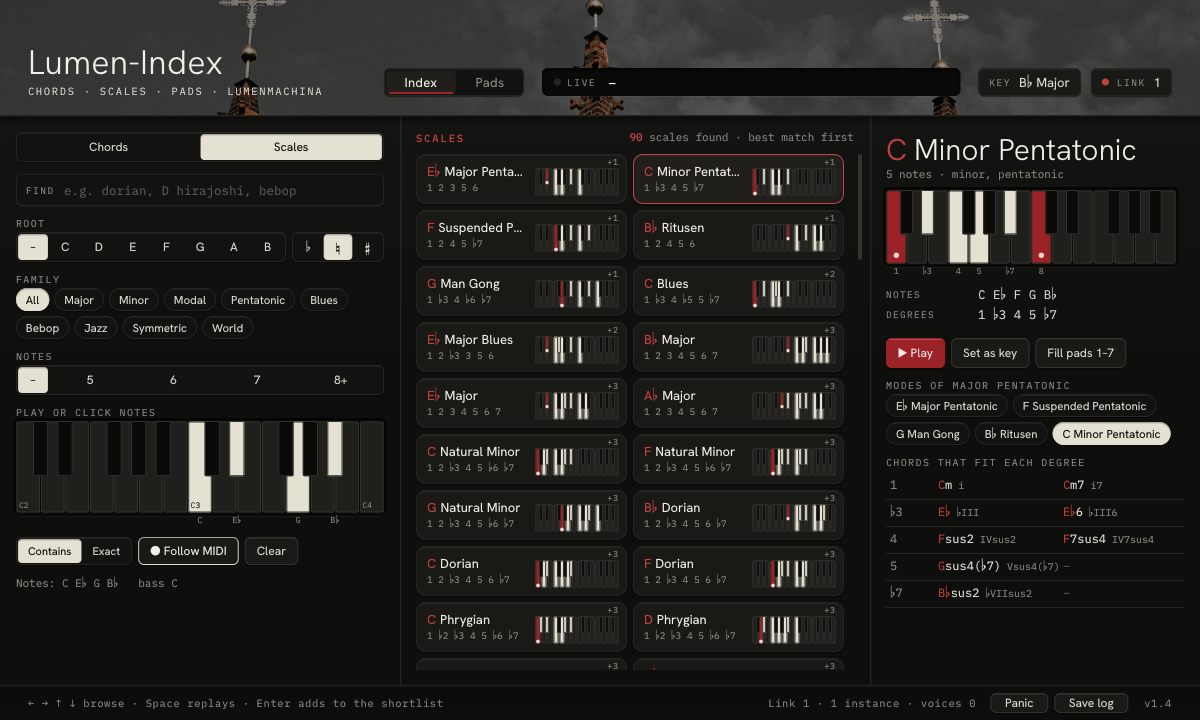
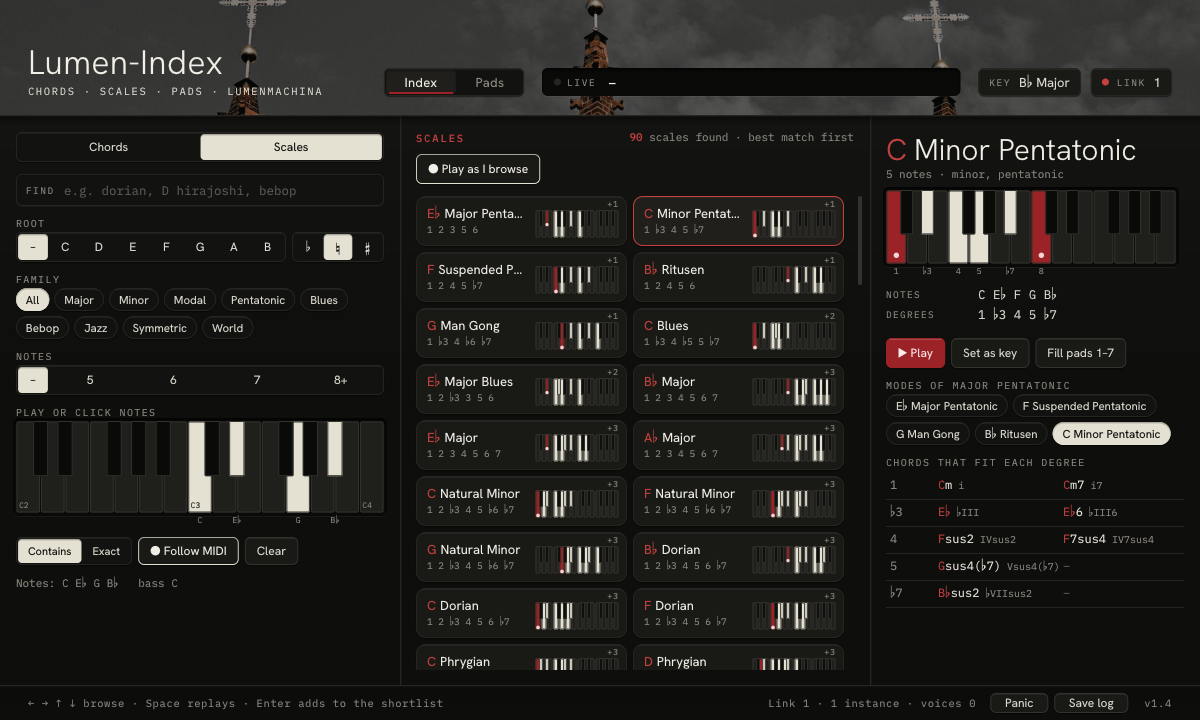
Lumen-Index 1.4: Undo/Redo, scales that play, slash chords; roadmap
Claude-Session: https://claude.ai/code/session_01UJgLAssBDWTF9GFMoTxngF

diff --git a/plugins/lumen-index-guide.md b/plugins/lumen-index-guide.md
@@ -118,6 +118,7 @@ This walkthrough uses Bitwig. You'll need a MIDI keyboard, or you can click the 
 1. Click **Pads** in the header if it isn't already showing.
 2. Pick **7ths** (the default), then click **Fill 1–7**. Pads 1–7 now hold the seven chords of your key.
 3. Click **Borrowed**. Pads 8–12 get chords from the parallel key (the major or minor key on the same root), which add colour.
+4. Changed your mind? **Pad sets ▾** has **Undo** and **Redo** for changes to the pads, the progression and the key.
 
 **3. Play the pads**
 
@@ -187,9 +188,18 @@ The window is the same in the plugin and both apps. It's a fixed size (1200 × 7
 
 The default key is C Major with flats. The key decides how notes are spelt, the Roman numerals, which pads are dimmed as out of key, what **Fill 1–7** and **Borrowed** put on the pads, the Hints, and what Snap treats as the scale. Linked instances share the key.
 
+A key change made in this menu can be undone (see [Undo and Redo](#undo-and-redo)).
+
 ### Footer
 
-- **Status text**: the last message, for example "Sent Cmaj7 (Root, Close) to pad 3." The message stays until the next one. Until the first message, it shows a hint for the page (and while you fill progression slots, it shows the filling hint instead of any message):
+- **Status text**: what just happened, for example "Sent Cmaj7 (Root, Close) to pad 3." A message shows for about 6 to 15 seconds, depending on how long it is (a warning, such as "Could not write the log file.", about 4 seconds more). Then the page's hint comes back. A new message, even the same one again, starts its time again.
+  - While you hold a pad (or press on anything you can drag out), and while you drag a clip out, the message stays until you let go or drop; then its time starts again.
+  - While Read is waiting or reading, the footer shows "Reading: play the clip on this track." instead of the page's hint.
+  - While you fill progression slots, it shows the filling hint instead of any message.
+  - "Type a name for the set first." stays while the set's name field is still empty.
+  - Switching pages shows that page's hint, unless a message is still showing.
+
+  The hints:
   - Index: "← → ↑ ↓ browse · Space replays · Enter adds to the shortlist"
   - Pads: "Hold a pad to play it · drag it into the arranger for a clip"
   - While filling progression slots: "Click pads to fill the progression in order · Esc stops"
@@ -205,7 +215,8 @@ The default key is C Major with flats. The key decides how notes are spelt, the 
 - The mouse wheel or trackpad scrolls the results, the detail panel, the KEY menu's scale list, the Pad sets list and the pad editor's chord grid. You can also drag the results scrollbar.
 - A double-click works like a single click.
 - **Esc** closes an open menu, or stops filling progression slots. Clicking outside a menu also closes it.
-- On a Mac, keys the window doesn't use, and any key with Command, go on to the host, so its transport shortcuts still work.
+- **Ctrl+Z** undoes and **Ctrl+Shift+Z** or **Ctrl+Y** redoes (on a Mac, **Cmd+Z**, **Cmd+Shift+Z**, **Cmd+Y**), when the Lumen-Index window has the keyboard and you're not typing in FIND or a set name. See [Undo and Redo](#undo-and-redo).
+- On a Mac, keys the window doesn't use, and any key with Command other than Undo and Redo, go on to the host, so its transport shortcuts still work.
 
 ---
 
@@ -290,7 +301,7 @@ With no notes selected, Chords lists every chord the filters allow. Scales, with
 
 If nothing matches: "Nothing matches. Try Contains, or clear a filter."
 
-- **Click a tile** to select it. A chord tile also plays; to hear a scale, use **▶ Play** in the right column.
+- **Click a tile** to select it and hear it: a chord plays as a chord, a scale note by note (see [Scales view](#scales-view)).
 - **Drag a chord tile** into your DAW for a one-bar clip (see [Getting it into your song](#getting-it-into-your-song)).
 
 ### Browsing with the keys
@@ -302,16 +313,16 @@ When FIND isn't taking your typing:
 | ← / → | previous / next result |
 | ↑ / ↓ | up / down one row (2 results) |
 | PgUp / PgDn | 12 results back / on |
-| Space | replay the selected chord (Chords only) |
-| Enter | add the chord to the shortlist, or take it out if it's already there |
+| Space | replay the selected chord or scale |
+| Enter | add the chord to the shortlist, or take it out if it's already there (Chords only) |
 
-**● Play as I browse** (Chords, on by default) plays each result as you move to it with the arrow keys.
+**● Play as I browse** (on by default) plays each result as you move to it with the arrow keys or PgUp / PgDn: a chord as a chord, a scale note by note. It's shown in both Chords and Scales, and it's one setting for both.
 
 ### Lead-in
 
 **Lead-in** (Chords, with − / + buttons) plays one of your pads before each candidate, so you hear every chord coming from the chord before it. The values are None, then "Pad 1 · Cmaj7" through "Pad 12".
 
-With a lead-in, each audition plays the pad, a short gap, then the candidate. Without one, the candidate plays on its own.
+With a lead-in, each audition plays the pad, a short gap, then the candidate. Without one, the candidate plays on its own. The lead-in is for chords only: scales always play on their own.
 
 ### Chord details
 
@@ -321,11 +332,11 @@ The right column shows the selected chord:
 - A Roman-numeral pill and "in C Major", or, for a chord with notes outside the key, "borrowed: A♭ not in key".
 - A keyboard with the notes labelled by degree.
 - **NOTES**, **INTERVALS** and **VOICED** (with octave numbers, for example "C3 E3 G3").
-- **INVERSION**: **Root / 1st / 2nd / 3rd**. An inversion puts a different chord note at the bottom: 1st inversion has the 3rd lowest, 2nd the 5th. At most four buttons are shown, even for 5- and 6-note chords.
+- **INVERSION**: **Root / 1st / 2nd / 3rd**. An inversion puts a different chord note at the bottom: 1st inversion has the 3rd lowest, 2nd the 5th. At most four buttons are shown, even for 5- and 6-note chords. For a slash chord (C/E), the inversion that puts its bass at the bottom is lit to begin with.
 - **VOICING**: **Close / Open / Drop-2 / Spread** (explained under [Chord tab](#chord-tab)). Changing the inversion or voicing plays the chord again.
 - **▶ Play** plays it. Index chords play around C3, at velocity 0.75, through your instrument.
 - **☆ Shortlist / ★ In shortlist** adds it to the shortlist, or takes it out.
-- **SEND TO PAD 1–12** puts this chord on that pad: root, spelling, chord type, and the inversion and voicing you picked. The pad keeps its octave and play settings. Status: "Sent Cmaj7 (Root, Close) to pad 3." There's no Undo for this. A slash chord's bass note isn't sent (the status still names the slash chord): to keep that note at the bottom, pick the inversion that puts it there before you send.
+- **SEND TO PAD 1–12** puts this chord on that pad: root, spelling, chord type, and the inversion and voicing you picked. The pad keeps its octave and play settings. Status: "Sent Cmaj7 (Root, Close) to pad 3." It can be undone (see [Undo and Redo](#undo-and-redo)). A slash chord (C/E) is played, starred, dragged and sent in the inversion that puts its bass at the bottom, so the pad keeps that bass note; pick another **INVERSION** first if you want a different one.
 - **FOUND IN**: up to six common 7-note scales that contain the chord. Click one to jump to that scale in Scales mode.
 
 ### Shortlist
@@ -351,9 +362,10 @@ The right column shows the selected scale:
 - The root (in red) and name, with "also …" names, the number of notes and its families.
 - A keyboard labelled with degrees (the octave shows as "8").
 - **NOTES** and **DEGREES**. For Melodic Minor, also **DESCENDING**: the natural minor, read downward, as it's traditionally played going down.
-- **▶ Play** plays the scale going up, with the octave on top. For scales of more than 7 notes (bebop, diminished and so on), it plays the first 7 notes, then the octave.
-- **Set as key** makes it your key, choosing flats or sharps from the root's spelling. Status: "Key set to D Dorian. Shared with linked instances."
-- **Fill pads 1–7** fills pads 1–7 from this scale at the size chosen on the Pads page (Triads, 7ths or 9ths). Unlike **Fill 1–7** on the Pads page, this one has no Undo.
+- **▶ Play** plays the scale going up, one note at a time, 150 ms apart: every note of it, starting from its root in middle C's octave (C3 to B3), then the octave on top. A bebop scale plays all 8 notes and the octave, the chromatic scale all 12 and the octave. Status: "Played D Dorian through the instrument: 7 notes, then the octave."
+- You hear a scale the same way when you click its tile, press **Space** (it replays the selected scale), or step to it with the arrow keys while **● Play as I browse** is on.
+- **Set as key** makes it your key, choosing flats or sharps from the root's spelling. Status: "Key set to D Dorian. Shared with linked instances." It can be undone.
+- **Fill pads 1–7** fills pads 1–7 from this scale at the size chosen on the Pads page (Triads, 7ths or 9ths). Status: "Pads 1–7 filled from Dorian." Like **Fill 1–7** on the Pads page, it can be undone (see [Undo and Redo](#undo-and-redo)).
 - **MODES OF …** (for scales in the Major, Harmonic minor, Melodic minor and Major pentatonic families): each mode, shown on the root that shares this scale's notes. A mode is the same set of notes started from a different degree: D Dorian has the notes of C Major. Click one to go to it.
 - **CHORDS ON EACH DEGREE** (7-note scales): a triad and a 7th on each degree, built by stacking thirds. For other scales, **CHORDS THAT FIT EACH DEGREE**: the most common triad and 4-note chord that fit. Each shows its numeral. Click one to hear it.
 
@@ -471,7 +483,7 @@ Hints need a pad to have been played first. The setting is saved with the projec
 
 The right column edits the selected pad. Its header shows "PAD n", its trigger key, the chord name, a numeral pill, and "in C Major" or "out of key". It has two tabs, **Chord** and **Play**; the open tab is saved with the project.
 
-There's no Undo for edits in the pad editor.
+Every change in the pad editor can be undone (see [Undo and Redo](#undo-and-redo)). Quick changes to one control, such as dragging **STRUM** or clicking **+** several times, count as one step.
 
 #### Chord tab
 
@@ -524,7 +536,9 @@ Humanize works on chords, strums and arpeggios.
 - On the Chord tab, **Copy voicing to all pads** copies only the voicing to the other 11 pads. It doesn't copy the root, chord, inversion or octave. Status: "Voicing copied to all pads."
 - On the Play tab, **Copy play settings to all pads** copies the whole Play tab to the other 11 pads: strum and its direction, velocity mode, value and curve, arpeggio mode, rate, octaves and gate, and both humanize settings. Status: "Strum, velocity, arpeggio and humanize copied to all pads."
 
-### Pad sets and Undo
+Both copy buttons can be undone.
+
+### Pad sets, Undo and Redo
 
 A pad set saves all 12 pads, with every Chord and Play setting, plus the progression (its slots, slot length and loop length). It doesn't save the progression's On/Off, Smooth, Hints, the key or the shortlist. Pad sets are shared by every project on the computer.
 
@@ -543,20 +557,34 @@ Names can use plain letters, digits, spaces and `- _ . ( ) ' # & + ,`, up to 39 
 
 In the name field, Enter saves, Esc closes the menu and Tab leaves the field.
 
-#### Undo
+#### Undo and Redo
 
-When there's something to undo, the bottom of the menu shows **Undo (back to <previous set name>)** or **Undo (back to the pads before)**. Click it to put the pads back. Status: "Pads put back as they were before the load."
+**Undo** and **Redo** sit at the bottom of the **PAD SETS** menu. They take back what you change in the pads, the progression and the key, up to 32 steps.
 
-| Undo covers | Undo doesn't cover |
-|---|---|
-| loading a pad set | **Fill pads 1–7** on the Index's Scales view |
-| **Fill 1–7** on the Pads page | **Send to pad** |
-| **Borrowed** | edits in the pad editor |
-| **Read → Pads only** and **Pads + progression** | a key change (from Read's **Set to <key>** or anywhere else) |
+- **Undo** names what it will take back, for example **Undo Fill 1–7**, **Undo Send to pad 3**, **Undo pad 2 voicing** or **Undo load of "lo-fi keys"**. On the right, the menu shows how many steps there are to undo ("3 steps"). Click it to go back one step; the menu stays open, so you can click again. Status: "Undid Fill 1–7."
+- **Redo** appears once you've undone something, named the same way. It puts back what you undid, one step at a time, until you make a new change: a new change clears Redo. Status: "Redid Fill 1–7."
+- With nothing to undo or redo, the menu shows "Click a set to load it. Sets are shared by every project." instead.
 
-- There's one level of Undo: only the last of these actions.
-- It puts back the pads and the progression, but leaves the progression's On/Off as it is now.
-- Undo isn't saved with the project, and it lives in the open window: closing the plugin window can lose it, so use it before you close the window.
+**From the keyboard**: **Ctrl+Z** undoes, **Ctrl+Shift+Z** or **Ctrl+Y** redoes (on a Mac, **Cmd+Z**, **Cmd+Shift+Z** or **Cmd+Y**). They work when the Lumen-Index window has the keyboard (click in it first) and you're not typing in FIND or a set name. Whether a host such as Bitwig passes these keys on to a plug-in window depends on the host; the **Undo** and **Redo** buttons in **Pad sets ▾** always work.
+
+**What a step puts back**: all 12 pads, with every Chord and Play setting; the progression (its slots, slot length and loop length; its **On / Off** is left as it is now); and the key (root, scale, and flats or sharps). Linked instances follow the key back. Undoing the load of a pad set also puts back the name the **Pad sets** button showed before.
+
+**What makes a step**:
+
+- **Fill 1–7** and **Borrowed** on the Pads page
+- **Fill pads 1–7**, **Set as key** and **Send to pad** on the Index
+- Read's **Pads only** and **Pads + progression** (with **Set to <key>** on, the key too)
+- loading a pad set
+- any change in the KEY menu
+- filling and clearing progression slots, and changing **SLOT** or **BARS**
+- **Copy voicing to all pads** and **Copy play settings to all pads**
+- every control in the pad editor
+
+A click that changes nothing makes no step. Quick repeated changes to one control on one pad count as one step: dragging **STRUM** or **VELOCITY**, or clicking **+** on **OCTAVE** several times, as long as each change comes within 1.5 seconds of the one before. Clicking through roots or scales in the KEY menu, and filling progression slots one after another, work the same way. After an Undo or a Redo, the next change is a step of its own.
+
+**Not undo steps**: saving or deleting a pad set file, the progression's **On / Off**, the role, **Snap** and **Snap to**, the link number, **Output channel** (**CH** in the apps), **Trigger keys**, **Smooth**, **Hints**, the Triads / 7ths / 9ths choice, and anything on the Index other than the buttons above (filters, notes, the shortlist).
+
+**How long it lasts**: the history is kept by the plugin, not by its window, so closing and reopening the plugin window doesn't lose it. It isn't saved with the project, and it starts empty when a project loads (in the standalone apps, when the app starts). After 32 steps, the oldest goes.
 
 ### Drag all pads
 
@@ -586,6 +614,7 @@ A new instance starts with slots 1–4 set to pads 1, 6, 4 and 5 (I vi IV V: Cma
 
 - **Holds**: the same pad in two slots in a row holds the chord. The second slot shows "—".
 - **Rests**: right-click a slot to clear it (Control-click on a Mac). An empty slot shows "+" and is silent. Status: "Slot 4 cleared (silence)."
+- Filling and clearing slots, and changing **SLOT** or **BARS**, can be undone (see [Undo and Redo](#undo-and-redo)). Switching the progression **On** or **Off** isn't an undo step.
 
 ### On / Off and timing
 
@@ -617,7 +646,7 @@ Click **Read ▾** on the Pads page (Pads role) to open **READ CHORDS**. While R
 
 ### Read a clip as it plays
 
-1. Click **● Read**. The menu shows "Waiting for the song · Play the clip on this track. Reading starts with its first note." and **Cancel**.
+1. Click **● Read**. The menu shows "Waiting for the song · Play the clip on this track. Reading starts with its first note." and **Cancel**. Until reading ends, the footer comes back to "Reading: play the clip on this track." whenever no newer message is showing.
 2. Play the clip **on the same track** as this Lumen-Index, so its notes come into it.
 3. Reading starts at the first note while the transport plays. The menu shows the bar and the note count, with **Done** and **Cancel**.
 4. It stops by itself when the song loops back, the transport stops, or after 64 bars. Or press **Done**.
@@ -680,7 +709,7 @@ The heading shows "N chords · N bars", with the source on the right: the file n
 
 After either button the menu closes and the Pads page shows. Status, for example: "Pads 1–4 and the progression from My verse, in A Natural Minor. Pad sets ▾ has Undo."
 
-**Undo** (in **Pad sets ▾**) puts the pads and the progression back, but **not the key**. If **Set to <key>** changed your key, change it back in the KEY menu.
+**Undo** (in **Pad sets ▾**, or Ctrl+Z) puts back the pads, the progression and, if **Set to <key>** changed it, the key (see [Undo and Redo](#undo-and-redo)).
 
 If nothing was found, the panel says "No chords in it", with "Its notes never sound as a chord or an arpeggio." or "It has no notes.", and **Read again**.
 
@@ -707,7 +736,7 @@ The footer hint reminds you: "Same link number here and on the pads track".
 - **The linked chord**: "LINK 1 · FROM THE PADS TRACK", the chord name, large, with its numeral ("V7 in C Major"), and a tile for each chord tone. The root tile is red and labelled "root"; the others show their degree. The **Bass guide** dims every tile except the root and the 5th, the safe notes for a bass line.
 - With no chord yet: "No chord from the pads track yet". With the link off: "Link is off".
 - **LAST NOTES ON THIS TRACK**: the last 4 notes you played here, each labelled "chord tone · 3 of G7", "scale note · 6 of C Major" or "outside C Major", in colour.
-- **The keyboard on the left** lights the chord's tones: "root" and "chord tones" in the Melody guide, or "root (play this)" and "5th" in the Bass guide. Scale notes are shaded. When Snap moves or mutes a key you press because it's outside the scale, that key is outlined red for as long as you hold it (the legend calls this "outside (flashes)", but the outline is steady). With Snap **Off** the note plays as it is and isn't outlined; **LAST NOTES ON THIS TRACK** still labels it "outside".
+- **The keyboard on the left** lights the chord's tones: "root" and "chord tones" in the Melody guide, or "root (play this)" and "5th" in the Bass guide. Scale notes are shaded. A key you press that's outside the key is outlined red ("outside the key") for as long as you hold it, whatever Snap does with it: with Snap **Off** the note plays as it is and is only marked; with Snap on it's also moved or muted. **LAST NOTES ON THIS TRACK** labels it "outside C Major" too.
 
 ### Snap
 
@@ -717,7 +746,7 @@ Snap moves or mutes the notes you play that fall outside the scale or the chord,
 
   | Setting | Notes outside the scale or chord… |
   |---|---|
-  | **Off** (default) | play as they are; the guide only shows |
+  | **Off** (default) | play as they are; the guide only shows them (a key outside the key is still outlined red) |
   | **Nearest** | move to the nearest allowed note (a tie goes down) |
   | **Up** | move up to the next allowed note |
   | **Down** | move down to the next allowed note |
@@ -787,7 +816,7 @@ Press on any of these, move a few pixels, and drop on the arranger or a launcher
 | Drag | Clip |
 |---|---|
 | A **pad** | one bar of its chord, with its inversion, voicing, octave, strum, arpeggio and humanize |
-| A **chord tile** on the Index | one bar, root position, close voicing (the selected tile uses the inversion and voicing you picked) |
+| A **chord tile** on the Index | one bar, close voicing, in root position or, for a slash chord, with its bass at the bottom (the selected tile uses the inversion and voicing you picked) |
 | A **shortlist chip** | one bar of that chord, with its saved inversion and voicing |
 | **Drag as clip** (shortlist) | one bar per shortlist chord |
 | **Drag all pads** | 12 bars, one per pad, with arpeggios, strums and humanize; Smooth across them if on |
@@ -881,7 +910,7 @@ The apps save the MIDI IN and OUT device names and everything the plugin would s
 
 ### Not saved
 
-FIND text, the filters, the selected notes, Follow MIDI, Slash, Contains/Exact, Caught, Read results and Undo.
+FIND text, the filters, the selected notes, Follow MIDI, Slash, Contains/Exact, Caught, Read results, and the Undo and Redo history.
 
 ### Pad set files
 
@@ -944,9 +973,14 @@ Fixed in 1.4: dragged clips no longer carry a tempo or time signature, so Bitwig
 
 Bitwig may keep Shift from plug-in windows. Type in lowercase (`ebm9`); for sharps, use the **ROOT** filter. See [FIND](#find).
 
-### Undo has disappeared
+### Undo is empty, or Ctrl+Z does nothing
 
-Undo keeps only the last action, isn't saved with the project, and can be lost when you close the plugin window. See [Undo](#undo).
+- The Undo history isn't saved with the project: it starts empty each time a project loads (in the apps, each time the app starts). Closing and reopening the plugin window keeps it.
+- Only changes to the pads, the progression and the key are undo steps. Switching the progression On or Off, Snap, the link, the role and the trigger keys aren't.
+- It keeps the last 32 steps. Redo empties as soon as you make a new change.
+- Ctrl+Z (Cmd+Z on a Mac) only reaches Lumen-Index when its window has the keyboard: click in the window first. It does nothing while you're typing in FIND or a set name. If your host keeps the key for itself, use **Undo** and **Redo** in **Pad sets ▾**, which always work.
+
+See [Undo and Redo](#undo-and-redo).
 
 ### Smooth or Hints seem to do nothing
 
@@ -981,8 +1015,10 @@ Each save overwrites the last file, so rename it first if you want to keep an ea
 | Index | ← / → | previous / next result |
 | Index | ↑ / ↓ | up / down one row |
 | Index | PgUp / PgDn | 12 results back / on |
-| Index | Space | replay the selected chord |
-| Index | Enter | add to the shortlist, or remove if already there |
+| Index | Space | replay the selected chord or scale |
+| Index (Chords) | Enter | add to the shortlist, or remove if already there |
+| Anywhere, not typing | Ctrl+Z (Mac: Cmd+Z) | Undo |
+| Anywhere, not typing | Ctrl+Shift+Z or Ctrl+Y (Mac: Cmd+Shift+Z or Cmd+Y) | Redo |
 | FIND field | Enter, Esc or Tab | leave the field |
 | Pad sets name field | Enter | save |
 | Pad sets name field | Esc | close the menu |
@@ -1030,7 +1066,9 @@ All are stepped.
 | Arpeggio | up to 24 notes, over 1–3 octaves |
 | Progression | up to 16 slots of 1/2, 1 or 2 bars; loops of 4, 8 or 16 bars (half-bar slots: up to 8) |
 | Shortlist | 24 chords |
+| Previews (▶ Play, a tile click, browsing) | up to 16 notes; a scale plays every note and the octave (chromatic: 13 notes) |
 | Pad sets | 200 listed; names up to 39 characters |
+| Undo | 32 steps; Redo as many as you've undone |
 | Read | 64 bars, 4096 notes, 256 chords and rests, 12 pads, files up to 16 MB |
 | Caught | 4 cards, the last 48 notes per chord |
 | Dragged clip | 24 chords, 256 single notes |
@@ -1060,7 +1098,7 @@ maj, m, °, +, sus2, sus4, 5, 6, m6, 6/9, m6/9, maj7, 7, m7, m(maj7), m7♭5, °
 - On a Mac, the link only reaches instances in the same process.
 - The window can't be resized, only scaled.
 - Read finds only major and natural minor keys, only the 41 chord types, and at most 64 bars.
-- One level of Undo, which lives in the window and doesn't restore the key. Index **Fill pads 1–7**, **Send to pad** and pad editor edits have no Undo.
+- Undo isn't saved with the project, and whether a host passes Ctrl+Z / Cmd+Z on to the plug-in window depends on the host; **Undo** and **Redo** in **Pad sets ▾** always work.
 - **Pads + progression** doesn't switch the progression On.
 - At most four inversion buttons (Root to 3rd).
 - Pad cards always spell trigger keys with sharps.

diff --git a/plugins/lumen-index.md b/plugins/lumen-index.md
@@ -9,6 +9,10 @@ Runs in **Bitwig Studio** (CLAP) and in **Logic Pro, GarageBand and MainStage** 
 ## What's new in 1.4
 
 - **Read chords from a clip.** Press **Read**, play a clip on the track, and Lumen-Index finds its chords and its key. Or drop a MIDI file on the window: an export from your DAW, or anything from a MIDI pack. One click puts the chords on the pads, and on the progression in time.
+- **Undo and Redo, 32 steps deep.** Everything you change in the pads, the progression and the key can be taken back and put back again: fills, Borrowed, Send to pad, Read, loading a pad set, key changes, the progression's slots and every pad setting. Use the buttons in **Pad sets**, which always work, or **Ctrl+Z** (**Cmd+Z** on a Mac) when the plugin window has the keyboard. Undo now puts the key back too, and keeps its history when you close the plugin window.
+- **Scales play as you browse.** Click a scale, press **Space**, or step through them with the arrow keys, and you hear it played upward one note at a time: every note of it, even the eight of a bebop scale or all twelve of the chromatic, then the octave.
+- **Slash chords keep their bass.** Send C/E to a pad and it goes on with E at the bottom, as it was played on the Index.
+- **The footer tidies up after itself:** a message shows for a few seconds, then the page's hint comes back. In the guides, a key you hold that's outside the key is now outlined red on the keyboard, even with Snap off.
 - **Clips you drag out fit your song.** They're timed at the song's tempo and carry no tempo marker, so Bitwig no longer asks to change your tempo when you drop one in. Strums and humanize in them used to be timed for 120 bpm whatever the song.
 - **Bitwig on Windows:** the link between tracks, Caught and Read now keep running with every plugin window closed.
 - **Save log** writes a much fuller report when something goes wrong, and there are fixes around Panic and drag-and-drop. The full list is under **NEW IN 1.4** in the manual (`README.txt` in the download).
@@ -17,13 +21,13 @@ Runs in **Bitwig Studio** (CLAP) and in **Logic Pro, GarageBand and MainStage** 
 
 The **Index** page is a dictionary of 41 chord types and 56 scales on every root. Type a name into **FIND** (`ebm9`, `sus`, `f#maj7`, `dorian`, `d hirajoshi`, `bebop`), or play a few notes on your keyboard, or click them, and every chord or scale that holds them comes up, best match first. **Contains** shows everything that holds your notes; **Exact** only what matches them exactly. Filters for root, quality and extension (or, for scales, family and number of notes) narrow it down.
 
-Browse by ear: the arrow keys step through the results and each chord plays as you reach it. Set a **Lead-in** pad and every candidate plays after it, so you hear each one coming from your chord, not on its own.
+Browse by ear: the arrow keys step through the results and each chord or scale plays as you reach it. Set a **Lead-in** pad and every candidate chord plays after it, so you hear each one coming from your chord, not on its own.
 
-Every chord shows its notes, intervals and Roman numeral in your key (or what it borrows from outside it), with your choice of inversion and voicing, and the common scales it's found in. Send it to any pad in one click. Keep the good ones in a **shortlist** of up to 24, play it back in order, and drag it out as a progression.
+Every chord shows its notes, intervals and Roman numeral in your key (or what it borrows from outside it), with your choice of inversion and voicing, and the common scales it's found in. Send it to any pad in one click; a slash chord keeps its bass note at the bottom. Keep the good ones in a **shortlist** of up to 24, play it back in order, and drag it out as a progression.
 
 ![The Index page: every chord containing C, E♭, G and B♭, in B♭ major, with Cm7 open](../docs/images/lumen-index/index.png)
 
-Every scale shows its notes and degrees, its modes, and the chords on each degree; click a chord to hear it. **Set as key** makes the scale your key, and **Fill pads 1–7** puts its chords on the pads.
+Every scale shows its notes and degrees, its modes, and the chords on each degree; click a chord to hear it. Click the scale itself to hear it played upward, every note and then the octave. **Set as key** makes the scale your key, and **Fill pads 1–7** puts its chords on the pads.
 
 ![The Scales view: 90 scales holding those notes, C Minor Pentatonic open with its modes and chords on each degree](../docs/images/lumen-index/scales.png)
 
@@ -47,7 +51,7 @@ Each pad also has its own way of playing:
 - **Arpeggio**: up, down, up/down, random, or the whole chord retriggered; 1/4 to 1/32 with triplets; one to three octaves; gate from 25 to 100%. It follows the song's tempo and lands on its grid.
 - **Humanize**: timing (up to 35 ms) and velocity (up to 30%), on chords, strums and arpeggios alike.
 
-Copy a voicing or a set of play settings to every pad at once. Save all twelve pads, with every setting and the progression, as a named **pad set** and load it in any project. Loading a set, Fill 1–7, Borrowed and Read can each be undone.
+Copy a voicing or a set of play settings to every pad at once. Save all twelve pads, with every setting and the progression, as a named **pad set** and load it in any project. **Undo** and **Redo** go back and forth through your last 32 changes to the pads, the progression and the key, from the buttons in **Pad sets** or with **Ctrl+Z** (**Cmd+Z** on a Mac).
 
 ## Play a progression
 
@@ -62,7 +66,7 @@ Got a chord part already? Open **Read** on the Pads page and either:
 - **play it:** press Read, then play the clip on the same track; reading starts with its first note and stops when the song loops back or stops (up to 64 bars); or
 - **drop a MIDI file** on the window, or open one. Drums (on channel 10) are left out.
 
-Lumen-Index finds the chords bar by bar, one, two or four to a bar, whichever fits, and copes with block chords, arpeggios, slash chords, and a melody played over the chords. It finds the key too (major or natural minor). Click any chord to hear it, then put them on the pads in the order they come, at the inversion and octave they were played, with or without the progression in time, and change your key to match if you like. Pad sets has Undo for the pads and progression.
+Lumen-Index finds the chords bar by bar, one, two or four to a bar, whichever fits, and copes with block chords, arpeggios, slash chords, and a melody played over the chords. It finds the key too (major or natural minor). Click any chord to hear it, then put them on the pads in the order they come, at the inversion and octave they were played, with or without the progression in time, and change your key to match if you like. Undo puts back the pads, the progression and the key.
 
 (Bitwig and Logic don't hand a clip dragged from their arranger to a plugin window, which is why Read listens to the clip as it plays, alongside the file drop.)
 
@@ -70,7 +74,7 @@ Lumen-Index finds the chords bar by bar, one, two or four to a bar, whichever fi
 
 ## Guide your melody and bass
 
-Put Lumen-Index on a melody or bass track too, set it to **Melody guide** or **Bass guide**, and link it to your pads track with the same link number. The guide shows the chord being played and lights its tones (the bass guide points you to the root and the 5th), and checks each note you play: chord tone, scale note, or outside the key. Linked tracks share the key, so changing it on one changes it on all of them.
+Put Lumen-Index on a melody or bass track too, set it to **Melody guide** or **Bass guide**, and link it to your pads track with the same link number. The guide shows the chord being played and lights its tones (the bass guide points you to the root and the 5th), and checks each note you play: chord tone, scale note, or outside the key (outlined red on its keyboard while you hold it, even with Snap off). Linked tracks share the key, so changing it on one changes it on all of them.
 
 **Snap** can move stray notes up, down or to the nearest note in the scale or chord, or mute them.
 

diff --git a/README.md b/README.md
@@ -19,7 +19,7 @@ Every plugin takes its look from one of Lumen-Machina's photographs: its colors,
 
 Find chords and scales by name or by the notes you play, and put them on 12 pads with smooth voice leading and hints for what comes next. Run a progression in time with your song, read the chords out of a clip or MIDI file, catch the line you play over them, and drag it all into your arrangement. For Bitwig, Logic, GarageBand and MainStage, and as a standalone app for hardware.
 
-New in 1.4: Read chords from a clip as it plays or from a dropped MIDI file, and dragged clips timed at your song's tempo with no tempo prompt in Bitwig.
+New in 1.4: Read chords from a clip as it plays or from a dropped MIDI file; Undo and Redo, 32 steps deep, for the pads, the progression and the key; scales that play as you browse; slash chords that keep their bass on the pads; and dragged clips timed at your song's tempo with no tempo prompt in Bitwig.
 
 **[See everything Lumen-Index does →](plugins/lumen-index.md)** · **[Get it on Gumroad →](https://lumenmachina.gumroad.com/l/lumen-index)** · [User guide](plugins/lumen-index-guide.md)
 

diff --git a/ROADMAP.md b/ROADMAP.md
@@ -4,7 +4,7 @@ What is coming next, roughly in order. Plans change as each plugin is played wit
 
 ## Now
 - **Lumen-Serra 1.0** is out: the saw synth, with 36 presets. Bug reports and preset ideas welcome.
-- **Lumen-Index 1.3** is out: smooth voice leading, next-chord hints, borrowed chords, and the catcher on the melody and bass guides. Bug reports welcome.
+- **Lumen-Index 1.4** is out: read the chords of a clip or a MIDI file onto the pads, Undo and Redo, scales that play, and a full [user guide](plugins/lumen-index-guide.md). Bug reports welcome.
 - **Lumen-Core:** shared parts for the whole suite. The tape engine and the design book (the look every window is built from) are in; knobs, meters and the preset code are next.
 
 ## Next
